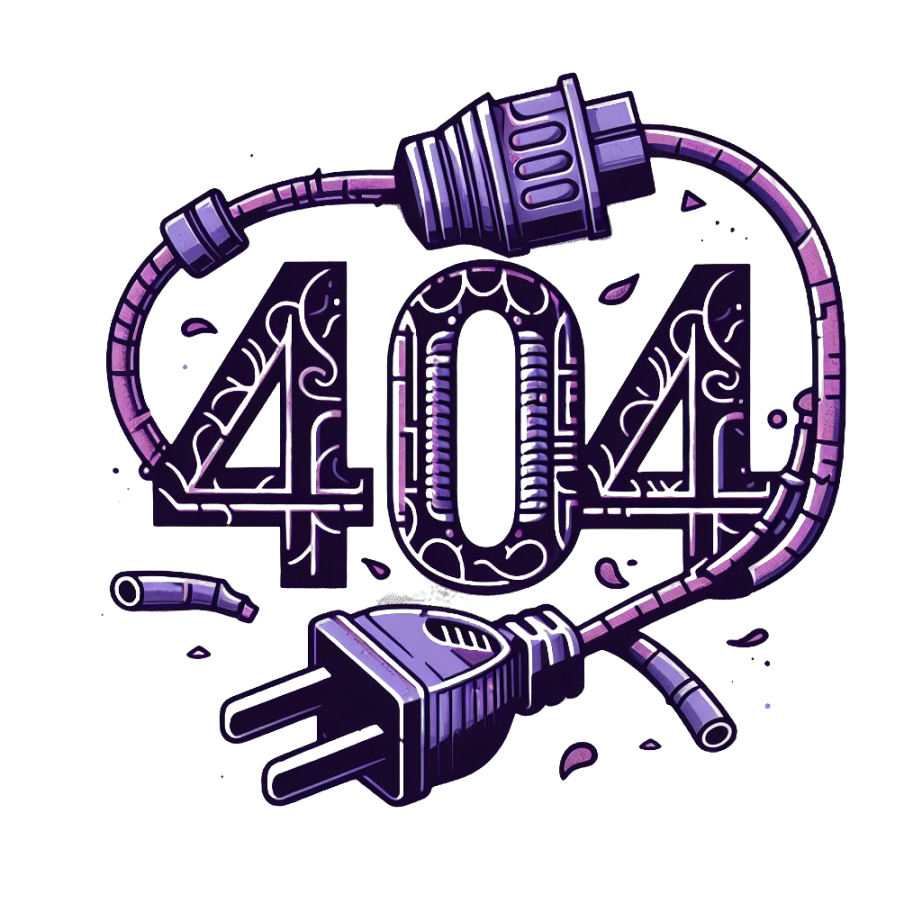
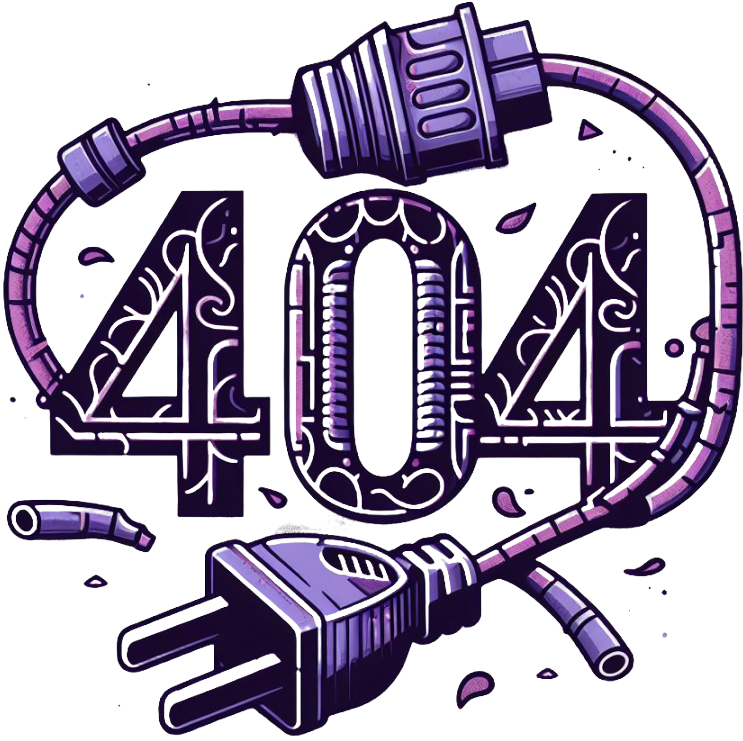
página-not-found-ajustada

diff --git a/north-vite/src/pages/notFound/NotFound.jsx b/north-vite/src/pages/notFound/NotFound.jsx
@@ -1,32 +1,31 @@
 import React from "react";
 import styles from "./NotFound.module.css";
 import logo from "../../utils/assets/logo-branca.png";
-import imgNotFound from "../../utils/assets/notFound.png"
+import imgNotFound from "../../utils/assets/notFound.png";
 import { Link } from 'react-router-dom';
 
 function NotFound() {
     return (
         <section>
-            <div className={styles.fundo}>
-                <div className={styles.navBar}>
+            <div className={styles.navBar}>
+                <Link to='/'>
+                    <img className={styles.logo} src={logo} alt="logo" />
+                </Link>
+            </div>
+            <div className={styles.content}>
+                <div className={styles.text}>
+                    <h1 className="text-7xl text-white">Ops!</h1>
+                    <h4 className="text-4xl text-white">Desculpe não 
+                    <h4>encontramos essa</h4> 
+                    <span class="text-black">página</span>.</h4>
                     <Link to='/'>
-                        <img className={styles.logo} src={logo} alt="logo" />
+                        <button className={styles.button}>Ir para o site</button>
                     </Link>
                 </div>
-                <div className={styles.fraseImage}>
-                    <div className={styles.text}>
-                        <h1 class="text-7xl text-white">Ops!</h1>
-                        <h4 class="text-4xl text-white">Desculpe não
-                            <h4>encontramos essa</h4>
-                            <span class="text-black">página</span>.</h4>
-                            <Link to='/'>
-                        <button className={styles.botao}>Ir para o site</button>
-                        </Link>
-                    </div>
-                    <img className={styles.image} src={imgNotFound} alt="404" />
-                </div>
+                <img className={styles.image} src={imgNotFound} alt="404" />
             </div>
         </section>
     );
 }
+
 export default NotFound;

diff --git a/north-vite/src/pages/notFound/NotFound.module.css b/north-vite/src/pages/notFound/NotFound.module.css
@@ -1,29 +1,46 @@
 @import url('https://fonts.googleapis.com/css2?family=Audiowide&family=Poppins:ital,wght@0,100;0,200;0,300;0,400;0,500;0,600;0,700;0,800;0,900;1,100;1,200;1,300;1,400;1,500;1,600;1,700;1,800;1,900&display=swap');
 
-.fundo{
+section {
     background-image: linear-gradient(180deg, #9333EA 1%, #3C3C3C 75%);
-}
-.logo{
-    width: 270px;
-    height: 65px;
-} 
-.navBar { 
-    display: flex;
-    justify-self: center;
-    align-items: center;
-    height: 100px;
-    margin-left: 100px;
-    
-  }
-  .fraseImage {
-    display: flex;
-    justify-content: space-evenly;
-    align-items: center;
-    align-content: center;
-    margin-top: -165px; /* Ajuste o valor conforme necessário */
+    height: 100vh;
 }
 
-.botao{
+.navBar {
+    width: 100%; 
+    display: flex;
+    padding: 20px 40px; 
+    display: inline-block;
+}
+.logo{
+    width: 279px;
+    height: 76px;
+}
+
+.content {
+    display: flex;
+    flex-direction: row;
+    justify-content: space-between;
+    align-items: center;
+    max-width: 1200px; /* Ajuste conforme necessário */
+    margin: 0 auto; /* Centraliza o conteúdo horizontalmente*/
+    /*padding: 20px; Adiciona algum espaço interno*/
+}
+
+.text {
+    display: flex;
+    flex-direction: column;
+    text-align: center;
+    text-decoration: none;
+    font-family: 'Poppins';
+    font-weight: bold;
+    color: white;
+    margin-right: 20px; 
+}
+.text h4{
+    line-height: 2;
+}
+
+.button {
     width: 259px;
     height: 62px;
     color: #FFFFFF;
@@ -31,18 +48,11 @@
     background-color: #581C87;
     border-radius: 9px;
     border: none;
-    margin-top: 30px;
-    margin-left: 10px;
+    font-weight: 400 !important; 
 }
 
-.text{
-    display: flex;
-    flex-direction: column;
-    text-align: center;
-    text-decoration: none;
-    font-family: 'Poppins';
-    font-weight: bold;
-}
-.text h4{
-     line-height: 2;
+.image {
+    width: 650px;
+    height: 570px;
+    /* border-radius: 10px;  */
 }

diff --git a/north-vite/src/components/carrosselListagem/carrosselListagem.css b/north-vite/src/components/carrosselListagem/carrosselListagem.css
@@ -13,27 +13,26 @@
 
 /* carrosselListagem.css */
 .carousel-item {
-    position: relative;
-    transition: background-color 0.3s ease; 
-  }
-  
-  .carousel-text {
-    position: absolute;
-    bottom: 50%; /* Define a posição do texto em relação à parte inferior da imagem */
-    left: 0;
-    right: 0;
-    text-align: center; /* Centraliza o texto horizontalmente */
-    font-family: 'Poppins';
-    font-weight: bold;
-    font-size: 45px;
-    opacity: 0;
-    color: #ffffff;
-    transition: opacity 0.3s ease, color 0.3s ease;
+  position: relative;
+  transition: background-color 0.3s ease; 
 }
-.carousel-item:hover{
-  background-color: #353434;
-  border-radius: 12px;
-  
+
+.carousel-text {
+  position: absolute;
+  bottom: 50%;
+  left: 0;
+  right: 0;
+  text-align: center;
+  font-family: 'Poppins';
+  font-weight: bold;
+  font-size: 45px;
+  opacity: 0;
+  color: #ffffff;
+  transition: opacity 0.2s ease, color 0.3s ease;
+}
+
+.carousel-item:hover img {
+  filter: brightness(0.5); /* Escurece a imagem ao passar o mouse */
 }
 
 .carousel-item:hover .carousel-text {

diff --git a/north-vite/src/pages/listagemTatuadores/ListagemTatuadores.module.css b/north-vite/src/pages/listagemTatuadores/ListagemTatuadores.module.css
@@ -78,6 +78,7 @@ html {
   background-repeat: no-repeat;
   background-position: 5px center;
   margin-right: 80px;
+  outline: none;
 }
 
 .onde {
@@ -85,6 +86,7 @@ html {
   background-size: 20px;
   background-repeat: no-repeat;
   background-position: 5px center;
+  outline: none;
 }
 
 .categoria {
